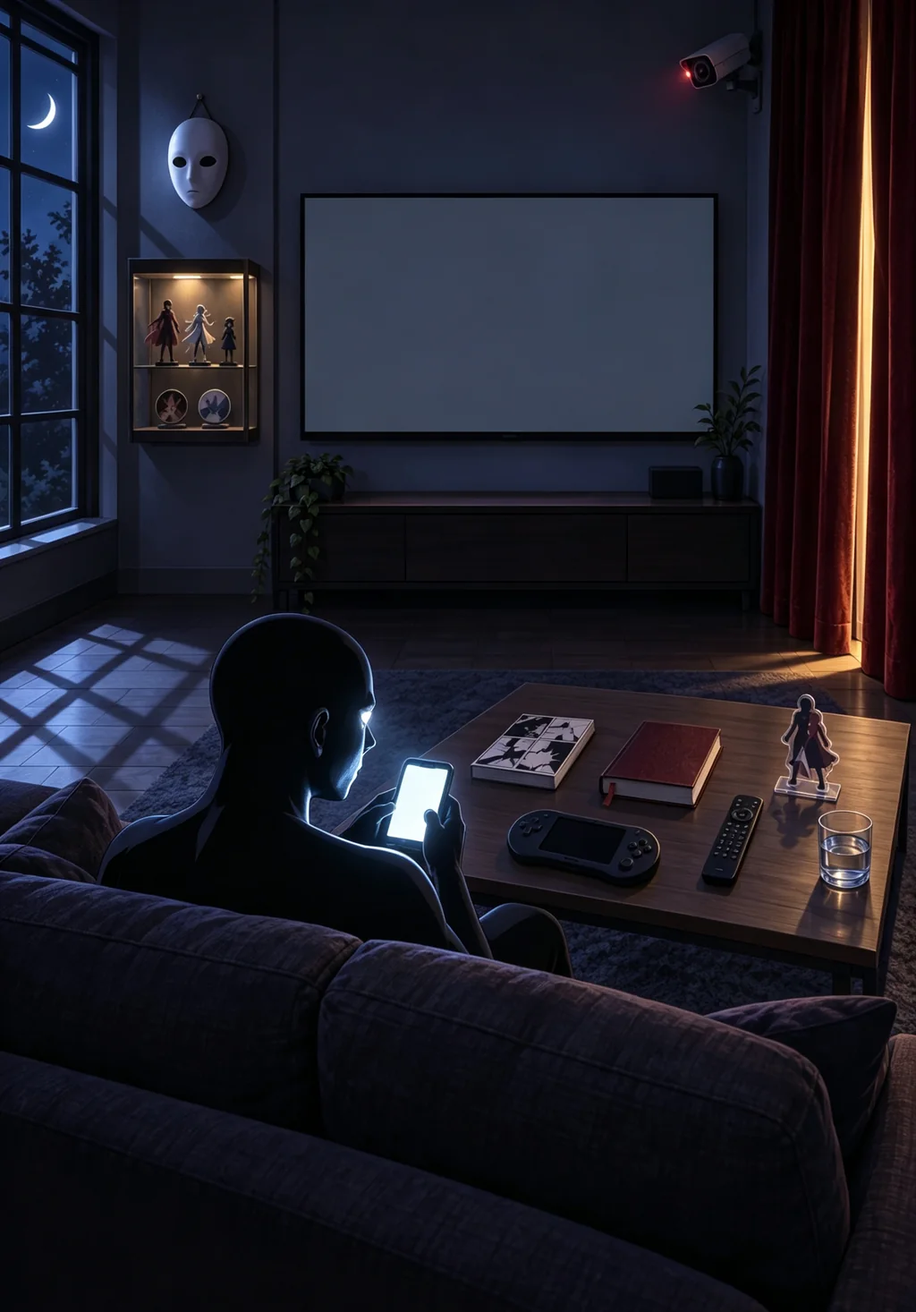
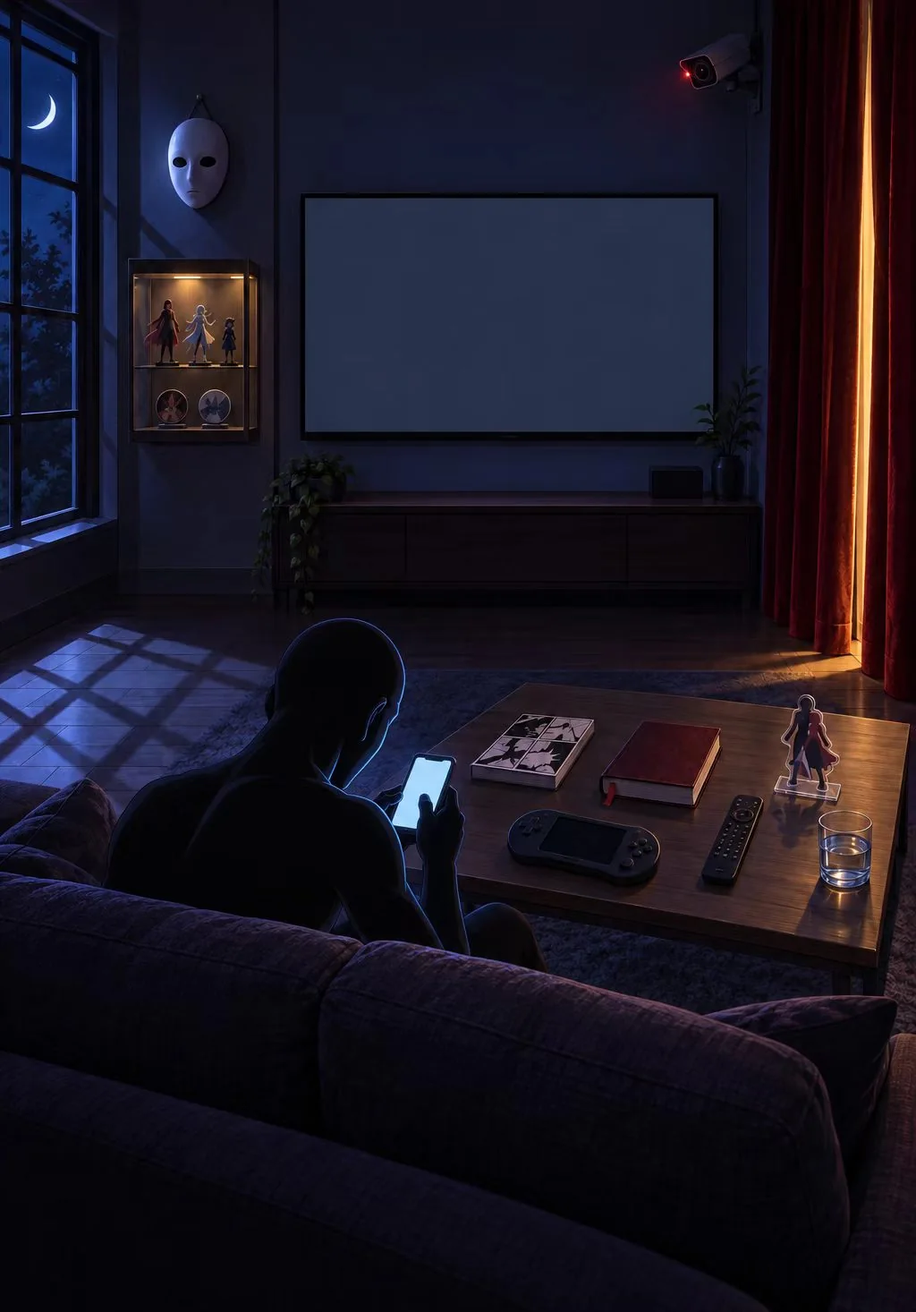
窥探之眼：全部换成生成的图（不另画）+ 引导选形态 + 手机五个 App + 换图进帷幕后 / 周边柜
- 底图：客厅、戴面具版、手机特写（原图上的品牌图标抹掉，前端叠自己的）、帷幕后面、周边柜、前景虚化层
- 第一次进来先选「这段剧情是一部……」：五块面板用第二张图抠的，选完电视亮起对应画面（也从图里抠）
- 手机：官方平台（随形态五选一）/ 论坛 / 周边店（商品 + 评价）/ 同人圈 / 另一条线（同人作品 = 原著线，原创作品 = IF 线）/ 设置
- 面具戴上 = 作者模式（整张交叉淡入戴面具那张）；帷幕 / 周边柜点进去整张换图；监控 = 刷新 / 第四面墙
- 内容仍是样例

Claude-Session: https://claude.ai/code/session_01TSyEwZEwvoN7y1zL8fqiLP

diff --git a/apps/eye/eye.js b/apps/eye/eye.js
@@ -1,149 +1,196 @@
 // 小手机 · 窥探之眼：从更高一层往下看——这段剧情在「那个世界」里是一部漫画 / 动画 / 电视剧 / 小说 / 游戏
-// 画面：深夜客厅（assets/eye/room.webp），一个背对我们的小黑人窝在沙发里刷手机；墙上的电视、面具、周边柜、红帷幕、监控都能点
-//   电视 → 本期更新（屏幕内容由前端实时画上去）   手机 → 论坛 / 热搜 / 投票 / 评分 / 同人（蓝色全息屏浮在他面前）
-//   面具 → 身份（观众席 ↔ 作者）   帷幕 → 幕后   周边柜 → 周边（联动一番赏）   监控 → 刷新本期 / 打破第四面墙
-// 现在只有样子和交互；内容都是样例，生成之后接
-import { S, $, $$, page, reg, toast, save, esc } from '../../core.js';
+// 画面全是生成的图（assets/eye/*.webp），一笔不画：
+//   room / room_author  客厅（面具挂在墙上 / 戴在他脸上）   phone  他手里的手机特写（屏幕上的图标抹掉了，前端叠）
+//   backstage  帷幕后面   cabinet  周边柜特写   fg  最前面一层虚化的沙发   tv_*  五种形态在电视上放的画面   gp_* / gi_*  引导用的五块面板和小图标
+// 第一次进来先选「这段剧情是一部什么」：五块面板浮在茶几上方，点一块，电视就亮起对应的画面
+// 手机上的 App：官方平台（随形态换，五选一）/ 论坛 / 周边店 / 同人圈 / 另一条线（同人作品是原著线，原创作品是 IF 线）
+// 内容都是样例；生成之后接
+import { S, $, $$, page, reg, toast, save, esc, openApp } from '../../core.js';
 
-const CSS = new URL('./eye.css?v=2', import.meta.url).href;
+const CSS = new URL('./eye.css?v=3', import.meta.url).href;
 const css = () => { if (document.querySelector('link[data-eye]')) return; document.head.insertAdjacentHTML('beforeend', `<link rel="stylesheet" data-eye href="${CSS}">`); };
-const ROOM = new URL('../../assets/eye/room.webp', import.meta.url).href;
-const ST = () => (S.eye ||= { form: 'anime', role: 'viewer', wall: false });
+const IMG = f => new URL(`../../assets/eye/${f}.webp`, import.meta.url).href;
+const ST = () => (S.eye ||= { form: '', role: 'viewer', wall: false, src: 'orig' });
 
 /* ---------- 形态 ---------- */
-const FORMS = [['manga', '漫画'], ['anime', '动画'], ['drama', '电视剧'], ['novel', '小说'], ['game', '游戏']];
+const FORMS = [['manga', '漫画'], ['game', '游戏'], ['novel', '小说'], ['drama', '电视剧'], ['anime', '动画']];
 const FN = Object.fromEntries(FORMS);
 const FM = {
-  manga: { ep: '话', unit: '第 3 卷 · 第 27 话', where: '周刊少年某某 · 每周四', bs: '作者后记', who: '作者与责编' },
-  anime: { ep: '集', unit: '第 2 季 · 第 8 集', where: '某某 TV · 每周六 24:00', bs: '声优感想', who: '配音演员' },
-  drama: { ep: '集', unit: '第 12 集', where: '某某卫视 · 每晚 20:00', bs: '演员访谈', who: '主演' },
-  novel: { ep: '章', unit: '第三卷 · 第 41 章', where: '某某文库 · 连载中', bs: '作者的话', who: '作者' },
-  game: { ep: '章', unit: '第 4 章 · 雨夜', where: '某某工作室 · 已发售', bs: '开发者日志', who: '制作组' },
+  manga: { ep: '话', unit: '第 3 卷 · 第 27 话', where: '周刊连载', plat: '周刊连载', bs: '作者后记', who: '作者与责编', tv: 'manga' },
+  anime: { ep: '集', unit: '第 2 季 · 第 8 集', where: '番剧站 · 每周六 24:00', plat: '番剧站', bs: '声优感想', who: '配音演员', tv: 'anime' },
+  drama: { ep: '集', unit: '第 12 集', where: '剧集台 · 每晚 20:00', plat: '剧集台', bs: '演员访谈', who: '主演', tv: 'city' },
+  novel: { ep: '章', unit: '第三卷 · 第 41 章', where: '文库 · 连载中', plat: '文库', bs: '作者的话', who: '作者', tv: 'novel' },
+  game: { ep: '章', unit: '第 4 章 · 雨夜', where: '游戏库 · 已发售', plat: '游戏库', bs: '开发者日志', who: '制作组', tv: 'game' },
 };
+// 引导面板和小图标在底图上的位置（百分比，从第二张图量的）
+// （面板原图位置，留着备用）
+const GP = { manga: [36.3, 40.6, 49.6, 47.8], game: [49.6, 41.6, 63.3, 49.3], novel: [64.1, 41.9, 75.8, 49.0], drama: [75.8, 42.0, 87.5, 49.4], anime: [87.1, 42.2, 98.8, 49.7] };
+const GI = { manga: [46.2, 51.0], game: [56.9, 52.6], novel: [69.6, 51.9], drama: [80.8, 52.2], anime: [91.4, 51.9] };
 
-/* ---------- 热区（相对图片的百分比：左 上 右 下） ---------- */
-const ZONES = {
-  tv: [33.5, 14.5, 78.5, 43.5], phone: [38, 56, 50, 67], mask: [16, 9, 27.5, 21], cab: [13.5, 20, 28.5, 34.5],
-  curtain: [82, 8, 99.5, 52], cctv: [72, 2, 87, 9.5], table: [52, 51, 97, 70],
-};
-// 镜头：点进去以后画面放大几倍、往哪边推（以该热区的中心为准）
+/* ---------- 热区（相对底图的百分比：左 上 右 下） ---------- */
+const ZONES = { tv: [33.5, 14.5, 78.5, 43.5], phone: [38, 56, 50, 67], mask: [16, 9, 27.5, 21], cab: [13.5, 20, 28.5, 34.5], curtain: [82, 8, 99.5, 52], cctv: [72, 2, 87, 9.5], table: [52, 51, 97, 70] };
 const CAMS = { tv: 1.35, phone: 1.9, mask: 2.4, cab: 2.2, curtain: 1.9, cctv: 2.6, table: 1.7 };
+// 点了以后整张换成另一张图的：手机特写 / 帷幕后面 / 周边柜
+const SWAP = { phone: 'phone', curtain: 'backstage', cab: 'cabinet' };
+// 手机屏幕上放图标的那块（手机特写图里的四个角，百分比；左上 右上 右下 左下）
+const PHQ = [[40.5, 31.6], [68.0, 36.2], [54.6, 62.0], [29.6, 57.9]];
 
-/* ---------- 电视里的画面（前端画的，跟形态走） ---------- */
+/* ---------- 电视里的画面 ---------- */
 function tvScreen() {
-  const f = FM[ST().form], st = ST();
+  const st = ST(); if (!st.form) return '';
   if (st.wall) return `<div class="tv-wall"><div class="tv-eye"><i></i></div></div>`;
-  return `<div class="tv-pic f-${st.form}"><i class="tv-sun"></i><i class="tv-hill h1"></i><i class="tv-hill h2"></i><i class="tv-rain"></i>
+  const f = FM[st.form];
+  return `<img class="tv-img" src="${IMG('tv_' + f.tv)}" alt=""><i class="tv-scan"></i>
 <div class="tv-dm">${['前方高能', '泪目了', '这一集神作', '你倒是回头啊', '打卡', '啊啊啊啊'].map((t, i) => `<span style="--i:${i}">${t}</span>`).join('')}</div>
-<div class="tv-sub"><b>${esc(FN[st.form])} · ${esc(f.unit)}</b><small>「……雨，停了啊。」</small></div></div>`;
+<div class="tv-sub"><b>${esc(FN[st.form])} · ${esc(f.unit)}</b><small>「……雨，停了啊。」</small></div>`;
 }
 
-/* ---------- 手机里的 App ---------- */
-const APPS = [['forum', '论坛', '#5ad0ff'], ['hot', '热搜', '#ff7a6a'], ['vote', '投票', '#ffd45a'], ['rate', '评分', '#b48aff'], ['fan', '同人', '#ff8ac8']];
-const AN = Object.fromEntries(APPS.map(a => [a[0], a[1]]));
+/* ---------- 手机上的 App ---------- */
+const APPS = () => { const st = ST(), f = FM[st.form] || FM.anime; return [
+  ['plat', f.plat, 'plat ' + st.form], ['forum', '论坛', 'forum'], ['shop', '周边店', 'shop'], ['fan', '同人圈', 'fan'], ['line', st.src == 'fan' ? '原著线' : 'IF 线', 'line'], ['set', '设置', 'set']]; };
+const GLY = {
+  plat: '<svg viewBox="0 0 24 24"><path d="M5 5h14v12H9l-4 3z" fill="none" stroke="#fff" stroke-width="1.8" stroke-linejoin="round"/><path d="M8 9h8M8 12h5" stroke="#fff" stroke-width="1.8" stroke-linecap="round"/></svg>',
+  forum: '<svg viewBox="0 0 24 24"><path d="M4 6h16v10H10l-4 3v-3H4z" fill="#fff"/><circle cx="9" cy="11" r="1.2" fill="#3a7bd5"/><circle cx="12" cy="11" r="1.2" fill="#3a7bd5"/><circle cx="15" cy="11" r="1.2" fill="#3a7bd5"/></svg>',
+  shop: '<svg viewBox="0 0 24 24"><path d="M5 8h14l-1 12H6z" fill="#fff"/><path d="M9 8V6a3 3 0 0 1 6 0v2" fill="none" stroke="#fff" stroke-width="1.8"/><path d="M9 12v1M15 12v1" stroke="#e8542a" stroke-width="2" stroke-linecap="round"/></svg>',
+  fan: '<svg viewBox="0 0 24 24"><path d="M12 20s-7-4.4-7-9.5A3.8 3.8 0 0 1 12 8a3.8 3.8 0 0 1 7 2.5C19 15.6 12 20 12 20z" fill="#fff"/><path d="M15 4l1 2 2 .3-1.5 1.4.4 2-1.9-1-1.9 1 .4-2L12 6.3l2-.3z" fill="#fff"/></svg>',
+  line: '<svg viewBox="0 0 24 24"><path d="M4 17c5 0 5-10 10-10h6M4 7c5 0 5 10 10 10h6" fill="none" stroke="#fff" stroke-width="1.9" stroke-linecap="round"/><path d="M18 5l2 2-2 2M18 15l2 2-2 2" fill="none" stroke="#fff" stroke-width="1.9" stroke-linecap="round" stroke-linejoin="round"/></svg>',
+  set: '<svg viewBox="0 0 24 24"><circle cx="12" cy="12" r="3" fill="none" stroke="#fff" stroke-width="2"/><path d="M12 3v3M12 18v3M3 12h3M18 12h3M5.6 5.6l2.1 2.1M16.3 16.3l2.1 2.1M5.6 18.4l2.1-2.1M16.3 7.7l2.1-2.1" stroke="#fff" stroke-width="2" stroke-linecap="round"/></svg>',
+};
+function phoneGrid() {
+  return `<div class="ph-grid">${APPS().map(([id, n, cls]) => `<b data-a="hopen" data-x="${id}"><i class="pi ${cls}">${GLY[id]}</i><span>${esc(n)}</span></b>`).join('')}</div>`;
+}
+// 把手机屏幕那块四边形算成 matrix3d（单位正方形 → 四个角）
+function quadMatrix(w, h, pts) { // 把 (0,0)-(w,h) 的矩形映射到四个角 pts（像素）
+  const [[x0, y0], [x1, y1], [x2, y2], [x3, y3]] = pts;
+  const dx1 = x1 - x2, dx2 = x3 - x2, dx3 = x0 - x1 + x2 - x3, dy1 = y1 - y2, dy2 = y3 - y2, dy3 = y0 - y1 + y2 - y3;
+  const det = dx1 * dy2 - dx2 * dy1, g = (dx3 * dy2 - dx2 * dy3) / det, hh = (dx1 * dy3 - dx3 * dy1) / det;
+  const a = x1 - x0 + g * x1, b = x3 - x0 + hh * x3, d = y1 - y0 + g * y1, e = y3 - y0 + hh * y3;
+  return `matrix3d(${a / w},${d / w},0,${g / w},${b / h},${e / h},0,${hh / h},0,0,1,0,${x0},${y0},0,1)`;
+}
 
 /* ---------- 全息屏：每个入口一页，点进去还有下一层 ---------- */
 const H = {
-  phone: () => ({ k: 'PHONE · 他的手机', t: '窥探他的屏幕', m: `${FN[ST().form]} · ${FM[ST().form].unit}`, apps: 1 }),
-  forum: () => ({ k: 'FORUM · 追更区', t: '今日 128 帖', m: '热帖 3 · 新回复 41', list: [['伞党', '第 27 话那把伞到底借给谁了？细节考据', '热 218'], ['路过的编辑', '这周作画是不是崩了，作者在赶稿吧', '56'], ['雨停了吗', '三人同框！！我宣布这是本季最佳', '热 501'], ['考据组', '扉页右下角那只眼睛……是我想多了吗', '89'], ['夜班读者', '每周四就靠这个撑着了', '33']], go: 'post', acts: [['我也发一帖', 'post']] }),
+  plat: () => { const f = FM[ST().form]; return { k: `${f.plat} · 官方`, t: '雨停之前', m: `${f.where} · ${f.unit} · 今天更新`, body: '这一' + f.ep + '里，万事屋的雨一直没停。他把最后一把伞借给了来委托的人，自己在屋檐下坐到天黑。有人问他在等谁，他说在等雨停。', dm: ['前方高能！！', '泪目了', '这一集神作', '打卡', '伞！！！'], acts: [['本' + f.ep + '评论 · 2,418', 'cmts'], ['刷新本期', 'gen']] }; },
+  forum: () => ({ k: 'FORUM · 追更区', t: '今日 128 帖', m: '热帖 3 · 新回复 41', tabs: [['热帖', 1], ['热搜', 0], ['投票', 0], ['评分', 0]], list: [['伞党', '第 27 话那把伞到底借给谁了？细节考据', '热 218'], ['路过的编辑', '这周作画是不是崩了，作者在赶稿吧', '56'], ['雨停了吗', '三人同框！！我宣布这是本季最佳', '热 501'], ['考据组', '扉页右下角那只眼睛……是我想多了吗', '89'], ['夜班读者', '每周四就靠这个撑着了', '33']], go: 'post', acts: [['我也发一帖', 'post']] }),
   post: () => ({ k: 'FORUM · 第 27 话', t: '那把伞到底借给谁了？', m: '伞党 · 2 小时前 · 218 楼', body: '扉页里那把伞的伞骨是七根，但第 19 话他拿的是八根的那把。要么是作画失误，要么借出去的根本不是同一把伞。\n\n另外右下角那只眼睛，连续三话都出现在同一个位置了，不可能是巧合。', list: [['2 楼 · 雨停了吗', '七根！！我数了三遍', '12'], ['3 楼 · 路过的编辑', '作画失误，别想太多', '4'], ['4 楼 · 考据组', '那只眼睛我也注意到了', '31']], acts: [['回复这一楼', 'reply']] }),
-  hot: () => ({ k: 'TRENDING · 热搜', t: '实时话题', m: '更新于 1 分钟前', list: [['1', '雨停之前 第27话', '爆'], ['2', '伞到底借给谁了', '热'], ['3', '银发少年 回头', '热'], ['4', '周刊少年某某 休刊', ''], ['5', '扉页 眼睛', '新'], ['6', '作者 后记 哭了', '']], go: 'forum' }),
-  vote: () => ({ k: 'VOTE · 人气投票', t: '第 3 回角色人气投票', m: '投票中 · 还剩 2 天', bars: [['银发少年', 42], ['红伞少女', 31], ['眼镜君', 15], ['店长', 8], ['其他', 4]], acts: [['投他一票', 'cast']] }),
-  rate: () => ({ k: 'SCORE · 评分', t: '9.2', m: '12,480 人评价 · 本话 9.6', bars: [['五星', 78], ['四星', 15], ['三星', 5], ['二星', 1], ['一星', 1]], list: [['长评', '关于雨、伞和那些没说出口的话', '热 1.2k'], ['短评', '这一话之后我不敢再看扉页了', '340']], go: 'post' }),
-  fan: () => ({ k: 'FANWORKS · 同人', t: '本周产出 64', m: '图 41 · 文 19 · cos 4', grid: [['#5a6a9a', '雨夜'], ['#8a5a6a', '借伞'], ['#4a6a5a', '屋檐下'], ['#6a5a8a', '回头'], ['#8a7a4a', '扉页'], ['#4a5a7a', '三人']], acts: [['看全部', 'fanall']] }),
-  tv: () => { const f = FM[ST().form]; return { k: `${FN[ST().form].toUpperCase ? FN[ST().form] : ''} · 本期`, t: '雨停之前', m: `${f.where} · ${f.unit}`, body: '这一' + f.ep + '里，万事屋的雨一直没停。他把最后一把伞借给了来委托的人，自己在屋檐下坐到天黑。有人问他在等谁，他说在等雨停。', dm: ['前方高能！！', '泪目了', '这一集神作', '打卡', '伞！！！'], acts: [['弹幕 · 实时', 'dm'], ['刷新本期', 'gen']] }; },
+  shop: () => ({ k: 'STORE · 官方周边店', t: '雨停之前 官方店', m: '关注 12.4 万 · 本期上新 6 件', goods: [['#d88aa6', '伞 · 亚克力立牌', '¥48', '4.9'], ['#8ab0e6', '万事屋 吧唧 3 枚', '¥35', '4.8'], ['#e6c46a', '第 3 卷 特装版', '¥128', '5.0'], ['#9a8ae6', '雨夜 挂画', '¥88', '4.7']], list: [['买家 · 伞党', '立牌做工比想的好，伞骨真的是七根', '★★★★★'], ['买家 · 夜班读者', '吧唧背面有那只眼睛，细节满分', '★★★★★'], ['买家 · 路过的编辑', '挂画偏暗，但挂在床头很对味', '★★★★☆']], acts: [['去商业街抽一番赏', 'street']] }),
+  fan: () => ({ k: 'FANWORKS · 同人圈', t: '本周产出 64', m: '图 41 · 文 19 · cos 4 · 高维度的粉丝们', grid: [['#5a6a9a', '雨夜'], ['#8a5a6a', '借伞'], ['#4a6a5a', '屋檐下'], ['#6a5a8a', '回头'], ['#8a7a4a', '扉页'], ['#4a5a7a', '三人']], list: [['太太A', '《等雨停的人》 · 短篇 · 3.2k 字', '热 890'], ['画手B', '屋檐下 · 彩图', '412']], acts: [['看全部', 'fanall']] }),
+  line: () => ST().src == 'fan' ? { k: 'ORIGINAL · 原著线', t: '原著里的他们', m: '原著角色看这条线的剧情', body: '原著里那把伞他没借出去。所以当原著的他看到这条线里的自己坐在屋檐下等雨停，沉默了很久。', list: [['原著 · 他', '……我不会把伞借出去的。但这个我，好像比我更像我。', ''], [' 原著 · 她', '这条线里他居然会等人，笑死，原著他连雨都不躲。', '']], acts: [['切换到 IF 线（原创作品）', 'srcorig']] }
+    : { k: 'IF · 另一条线', t: '如果那天他没借伞', m: 'IF 线 · 同一批人，另一个选择', body: '这部作品没有原著，所以另一条线是「IF 线」：同一个故事，在某个岔路口走了另一条路。那边的他们，隔着线看这边。', list: [['IF 线 · 他', '我把伞留下了。然后我在屋檐下等了一整晚，雨也没停。', ''], ['IF 线 · 她', '这边的我没去找他。所以看见那边的我去了，有点想哭。', '']], acts: [['切换到原著线（同人作品）', 'srcfan']] },
+  set: () => ({ k: 'SETTINGS', t: '作品档案', m: `${FN[ST().form]} · ${FM[ST().form].unit}`, forms: 1, acts: [['重新选择作品', 'reguide']] }),
+  tv: () => { const f = FM[ST().form]; return { k: `${FN[ST().form]} · 本期`, t: '雨停之前', m: `${f.where} · ${f.unit}`, body: '这一' + f.ep + '里，万事屋的雨一直没停。他把最后一把伞借给了来委托的人，自己在屋檐下坐到天黑。', dm: ['前方高能！！', '泪目了', '这一集神作', '打卡', '伞！！！'], acts: [['弹幕 · 实时', 'dm'], ['刷新本期', 'gen']] }; },
   mask: () => ({ k: 'IDENTITY · 身份', t: ST().role == 'author' ? '作者' : '观众席', m: ST().role == 'author' ? '以作者本人的身份发言 · 读者会认出你' : '以普通读者的身份逛论坛 · 用自己的马甲发帖', body: ST().role == 'author' ? '面具戴上了。从现在起，你的每一句话都会被当成官方发言。' : '面具还挂在墙上。你只是观众席里的一个人。', acts: [[ST().role == 'author' ? '摘下面具 · 回到观众席' : '戴上面具 · 成为作者', 'role']] }),
   curtain: () => { const f = FM[ST().form]; return { k: `BACKSTAGE · ${f.bs}`, t: f.who, m: `本${f.ep} · 2 条`, body: ST().form == 'manga' || ST().form == 'novel' ? '这一话画到最后一页的时候外面真的在下雨。借伞那个分镜改了四次，责编说第一版太温柔了，不像他。' : '录屋檐下那段戏的时候，导演让我什么都别说，只呼吸。后来回放，我自己也沉默了很久。', acts: [['看全文', 'bs']] }; },
-  cab: () => ({ k: 'GOODS · 周边', t: '本期周边', m: '一番赏 · 第 2 弹', grid: [['#d88aa6', 'A 赏'], ['#8ab0e6', 'B 赏'], ['#e6c46a', 'C 赏'], ['#ff8ac8', '吧唧'], ['#8adcff', '吧唧'], ['#9a8ae6', '立牌']], acts: [['去商业街抽一发', 'street']] }),
+  cab: () => ({ k: 'GOODS · 周边柜', t: '我的收藏', m: '手办 3 · 吧唧 3 · 卡 3 · 扭蛋 1', acts: [['去商业街抽一番赏', 'street'], ['去周边店', 'shop']] }),
   cctv: () => ({ k: 'EYE · 窥探之眼', t: ST().wall ? '他发现你了' : '高维视角', m: `上次窥视：${FM[ST().form].unit} · 2 小时前`, body: ST().wall ? '监控转过来了。电视里的人也转过来了。\n现在不只是你在看他。' : '从这里往下看，剧情是一部正在连载的作品。刷新一次，就把最新的进度翻到这个世界里来。', acts: [['刷新本期', 'gen'], [ST().wall ? '关上第四面墙' : '打破第四面墙', 'wall']] }),
-  table: () => ({ k: 'TABLE · 茶几', t: '桌上的东西', m: '五种形态', forms: 1 }),
+  table: () => ({ k: 'TABLE · 茶几', t: '这段剧情是一部……', m: '换一种形态，电视和手机都会跟着变', forms: 1 }),
 };
 
 function holo(k) {
-  const d = H[k](); const row = (a, b, c) => `<li><b>${esc(a)}</b><span>${esc(b)}</span>${c ? `<em>${esc(c)}</em>` : ''}</li>`;
+  const d = H[k]();
+  const li = (a, b, c, go) => `<li ${go ? `data-a="hopen" data-x="${go}"` : ''}><b>${esc(a)}</b><span>${esc(b)}</span>${c ? `<em>${esc(c)}</em>` : ''}</li>`;
   return `<div class="holo" data-h="${k}"><i class="ho-c c1"></i><i class="ho-c c2"></i><i class="ho-c c3"></i><i class="ho-c c4"></i>
 <div class="ho-h"><i></i><span class="scr" data-t="${esc(d.k)}">${esc(d.k)}</span><small>LIVE</small></div>
 <div class="ho-b"><b class="ho-t">${esc(d.t)}</b><em class="ho-m">${esc(d.m)}</em>
+${d.tabs ? `<div class="ho-tabs">${d.tabs.map(([n, on]) => `<b class="${on ? 'on' : ''}">${n}</b>`).join('')}</div>` : ''}
 ${d.body ? `<p>${esc(d.body).replace(/\n/g, '<br>')}</p>` : ''}
-${d.apps ? `<div class="ho-apps">${APPS.map(([id, n, c]) => `<b data-a="hopen" data-x="${id}" style="--c:${c}"><i></i>${n}</b>`).join('')}</div>` : ''}
-${d.forms ? `<div class="ho-forms">${FORMS.map(([id, n]) => `<b class="${ST().form == id ? 'on' : ''}" data-a="eform" data-x="${id}">${n}</b>`).join('')}</div>` : ''}
-${d.list ? `<ul class="ho-list">${d.list.map(([a, b, c]) => (d.go ? `<li data-a="hopen" data-x="${d.go}">` : '<li>') + `<b>${esc(a)}</b><span>${esc(b)}</span>${c ? `<em>${esc(c)}</em>` : ''}</li>`).join('')}</ul>` : ''}
-${d.bars ? `<div class="ho-bars">${d.bars.map(([n, v]) => `<div><span>${esc(n)}</span><i style="--v:${v}%"></i><em>${v}%</em></div>`).join('')}</div>` : ''}
+${d.forms ? `<div class="ho-forms">${FORMS.map(([id, n]) => `<b class="${ST().form == id ? 'on' : ''}" data-a="eform" data-x="${id}"><img src="${IMG('gi_' + id)}" alt="">${n}</b>`).join('')}</div>` : ''}
+${d.goods ? `<div class="ho-goods">${d.goods.map(([c, n, p, r]) => `<div style="--c:${c}"><i></i><b>${esc(n)}</b><span>${p}<em>★ ${r}</em></span></div>`).join('')}</div>` : ''}
 ${d.grid ? `<div class="ho-grid">${d.grid.map(([c, n]) => `<b style="--c:${c}"><span>${esc(n)}</span></b>`).join('')}</div>` : ''}
+${d.list ? `<ul class="ho-list">${d.list.map(([a, b, c]) => li(a, b, c, d.go)).join('')}</ul>` : ''}
 ${d.dm ? `<div class="ho-dm">${d.dm.map((t, i) => `<span style="--i:${i}">${esc(t)}</span>`).join('')}</div>` : ''}
 </div>${d.acts ? `<div class="ho-acts">${d.acts.map(([l, a]) => `<button data-a="hact" data-x="${a}"><span>${esc(l)}</span><i>›</i></button>`).join('')}</div>` : ''}</div>`;
 }
 
-/* ---------- 乱码解码：标题字一个个从乱码翻成正字 ---------- */
+/* ---------- 乱码解码 ---------- */
 const GL = '░▒▓█＜＞/\\|=+*#%&0123456789アイウエオカキクケコ';
 function scramble(el) {
-  const t = el.dataset.t || el.textContent; let n = 0; const L = t.length;
+  if (!el) return; const t = el.dataset.t || el.textContent; let n = 0; const L = t.length;
   const tick = () => { n += .6; el.textContent = [...t].map((c, i) => i < n ? c : c == ' ' ? ' ' : GL[Math.random() * GL.length | 0]).join(''); if (n < L) el._sc = requestAnimationFrame(tick); else el.textContent = t; };
   cancelAnimationFrame(el._sc); tick();
 }
 
-/* ---------- 镜头 ---------- */
+/* ---------- 镜头 / 换图 ---------- */
 let focused = '', stack = [];
-function focus(el, k, push = true) {
+function fitRoom(el) { const st = $('.eye-stage', el), fit = $('.fit', el); if (!st || !fit) return; const w = st.clientWidth, h = st.clientHeight; const fw = Math.max(w, h * 1024 / 1466) + 'px'; fit.style.setProperty('--fw', fw); st.style.setProperty('--fw', fw); placePhone(el); }
+function placePhone(el) { const sw = $('.swaps', el), g = $('.ph-grid', el); if (!sw || !g) return; const fw = sw.clientWidth, fh = fw * 1466 / 1024;
+  g.style.transform = quadMatrix(g.offsetWidth, g.offsetHeight, PHQ.map(([x, y]) => [x / 100 * fw, y / 100 * fh])); }
+function cam(el, k) {
   const st = $('.eye-stage', el), room = $('.eye-room', el); if (!st) return;
-  if (k && push && focused && focused != k) stack.push(focused);
-  focused = k; st.classList.toggle('zoom', !!k); st.dataset.focus = k || '';
-  const z = k && ZONES[k.split(':')[0]] ? ZONES[k.split(':')[0]] : null, zk = k ? k.split(':')[0] : '';
+  const zk = k ? k.split(':')[0] : '', z = ZONES[zk];
+  st.classList.toggle('zoom', !!k); st.dataset.focus = zk;
   if (z) { const fit = $('.fit', el), s = CAMS[zk] || 1.8, sw = st.clientWidth, sh = st.clientHeight, fw = parseFloat(fit.style.getPropertyValue('--fw')) || sw, fh = fw * 1466 / 1024;
-    // fit 居中在 stage 里；热区中心换算成 stage 百分比，再夹在合法范围内，免得放大后露出黑边
-    let cx = (sw - fw) / 2 + (z[0] + z[2]) / 200 * fw, cy = (sh - fh) / 2 + (z[1] + z[3]) / 200 * fh;
-    // transform-origin 是画面中心：点 p 放大后到 c + (p - c)·s + t。要让热区中心落到目标点 (画面中心偏上)，t = target - c - (p - c)·s
-    const C = [sw / 2, sh / 2], target = [sw / 2, sh * (zk == 'tv' ? .26 : .40)];
-    let tx = target[0] - C[0] - (cx - C[0]) * s, ty = target[1] - C[1] - (cy - C[1]) * s;
-    // 图片放大后的四边：左 = C.x + (fx0 - C.x)·s + tx ≤ 0；右 ≥ sw；上下同理 → 夹住 t
-    const fx0 = (sw - fw) / 2, fy0 = (sh - fh) / 2;
-    tx = Math.min(Math.max(tx, sw - (C[0] + (fx0 + fw - C[0]) * s)), -(C[0] + (fx0 - C[0]) * s));
-    ty = Math.min(Math.max(ty, sh - (C[1] + (fy0 + fh - C[1]) * s)), -(C[1] + (fy0 - C[1]) * s));
+    const cx = (sw - fw) / 2 + (z[0] + z[2]) / 200 * fw, cy = (sh - fh) / 2 + (z[1] + z[3]) / 200 * fh, C = [sw / 2, sh / 2], target = [sw / 2, sh * (zk == 'tv' ? .26 : .40)];
+    let tx = target[0] - C[0] - (cx - C[0]) * s, ty = target[1] - C[1] - (cy - C[1]) * s; const fx0 = (sw - fw) / 2, fy0 = (sh - fh) / 2;
+    tx = Math.min(Math.max(tx, sw - (C[0] + (fx0 + fw - C[0]) * s)), -(C[0] + (fx0 - C[0]) * s)); ty = Math.min(Math.max(ty, sh - (C[1] + (fy0 + fh - C[1]) * s)), -(C[1] + (fy0 - C[1]) * s));
     room.style.setProperty('--s', s); room.style.setProperty('--tx', tx + 'px'); room.style.setProperty('--ty', ty + 'px'); }
   else { room.style.setProperty('--s', 1); room.style.setProperty('--tx', '0px'); room.style.setProperty('--ty', '0px'); }
-  $$('.hz', el).forEach(h => h.classList.toggle('on', h.dataset.x == zk));
-  $('.holo', el)?.remove(); $('.eye-back', el)?.classList.toggle('show', !!k);
-  $('.holo-beam', el)?.remove();
-  if (k) { const hk = k.includes(':') ? k.split(':')[1] : k; if (H[hk]) { st.insertAdjacentHTML('beforeend', (zk == 'phone' ? '<i class="holo-beam"></i>' : '') + holo(hk)); const h = $('.holo', el); requestAnimationFrame(() => { h.classList.add('in'); $('.holo-beam', el)?.classList.add('in'); scramble($('.scr', h)); }); } }
+  // 换整张图：推近以后再淡入（手机特写 / 帷幕后 / 周边柜）
+  const sw_ = SWAP[zk] || ''; $$('.swap', el).forEach(i => i.classList.toggle('in', i.dataset.k == sw_)); st.classList.toggle('swapped', !!sw_);
+  $$('.hz', el).forEach(h => h.classList.toggle('on', h.dataset.x == zk && !sw_));
 }
-const back = (el, pg) => { if (stack.length) focus(el, stack.pop(), false); else { focus(el, ''); } };
+function focus(el, k, push = true) {
+  const st = $('.eye-stage', el);
+  if (k && push && focused && focused != k) stack.push(focused);
+  focused = k; cam(el, k);
+  $('.holo', el)?.remove(); $('.holo-beam', el)?.remove(); $('.eye-back', el)?.classList.toggle('show', !!k);
+  const zk = k ? k.split(':')[0] : '', hk = k.includes(':') ? k.split(':')[1] : k;
+  st.classList.toggle('ph-home', zk == 'phone' && hk == 'phone');
+  if (k && hk != 'phone' && H[hk]) { st.insertAdjacentHTML('beforeend', (zk == 'phone' ? '<i class="holo-beam"></i>' : '') + holo(hk)); const h = $('.holo', el); requestAnimationFrame(() => { h.classList.add('in'); $('.holo-beam', el)?.classList.add('in'); scramble($('.scr', h)); }); }
+}
+const back = el => { if (stack.length) focus(el, stack.pop(), false); else focus(el, ''); };
 
-function fitRoom(el) { const st = $('.eye-stage', el), fit = $('.fit', el); if (!st || !fit) return; const w = st.clientWidth, h = st.clientHeight; fit.style.setProperty('--fw', Math.max(w, h * 1024 / 1466) + 'px'); }
+/* ---------- 引导：第一次进来先选作品 ---------- */
+function guide(el, on) { const g = $('.eye-guide', el); if (!g) return; g.classList.toggle('in', on); $('.eye-stage', el).classList.toggle('guiding', on); }
+function pickForm(el, k, pg) {
+  const st = ST(); st.form = k; save();
+  const g = $('.eye-guide', el); if (g) { $$('.gp', g).forEach(p => p.classList.toggle('pick', p.dataset.x == k)); $$('.gp', g).forEach(p => p.dataset.x != k && p.classList.add('off')); }
+  setTimeout(() => { guide(el, false); $('.tv-scr', el).innerHTML = tvScreen(); $('.tv-scr', el).classList.add('lit'); $('.eye-brand small', el).textContent = `${FN[k]} · ${FM[k].unit}`; placePhone(el); $('.ph-grid', el).innerHTML = phoneGrid().replace(/^<div class="ph-grid">|<\/div>$/g, ''); }, 650);
+}
+
 function mount(el) {
   fitRoom(el); requestAnimationFrame(() => fitRoom(el)); const st = $('.eye-stage', el); if (!st || st._eye) return; st._eye = 1; new ResizeObserver(() => fitRoom(el)).observe(st);
-  // 聚光灯：手指 / 鼠标在哪，哪里就亮一点（像拿手电筒照着看）
   st.addEventListener('pointermove', e => { const r = st.getBoundingClientRect(); st.style.setProperty('--mx', (e.clientX - r.left) / r.width * 100 + '%'); st.style.setProperty('--my', (e.clientY - r.top) / r.height * 100 + '%'); });
-  // 三维倾斜：按住拖动一点点，整个房间跟着微微转（视差）
   let y0 = 0; st.addEventListener('pointerdown', e => { const c = e.target.closest('.holo'); y0 = c ? e.clientY : 0; });
   st.addEventListener('pointerup', e => { if (y0 && e.clientY - y0 > 48) back(el); y0 = 0; });
-  st.addEventListener('click', e => { if (e.target.closest('.holo,[data-a]')) return; const b = e.target.closest('.hz'); if (!b && focused) back(el); });
-  // 点击涟漪
-  st.addEventListener('pointerdown', e => { const b = e.target.closest('button,.hz,.ho-apps b,.ho-forms b'); if (!b) return; const r = b.getBoundingClientRect(), i = document.createElement('i'); i.className = 'rip'; i.style.left = e.clientX - r.left + 'px'; i.style.top = e.clientY - r.top + 'px'; b.append(i); setTimeout(() => i.remove(), 700); });
-  // 监控红灯 + 电视慢慢动的光
-  const tv = $('.tv-scr', el); tv && (tv.innerHTML = tvScreen());
+  st.addEventListener('click', e => { if (st.classList.contains('guiding')) return; if (e.target.closest('.holo,[data-a],.ph-grid')) return; if (focused) back(el); });
+  st.addEventListener('pointerdown', e => { const b = e.target.closest('button,.hz,.ph-grid b,.ho-forms b,.gp'); if (!b) return; const r = b.getBoundingClientRect(), i = document.createElement('i'); i.className = 'rip'; i.style.left = e.clientX - r.left + 'px'; i.style.top = e.clientY - r.top + 'px'; b.append(i); setTimeout(() => i.remove(), 700); });
+  if (!ST().form) guide(el, true);
 }
 
-const body = () => { const st = ST(); return `<div class="eye-stage ${st.wall ? 'wall' : ''}" style="--mx:50%;--my:50%">
-<div class="eye-room" style="--s:1;--tx:0px;--ty:0px"><div class="fit"><img src="${ROOM}" draggable="false" alt="">
-<div class="tv-scr">${tvScreen()}</div>
+const body = () => { const st = ST(), has = !!st.form; return `<div class="eye-stage ${st.wall ? 'wall' : ''}" style="--mx:50%;--my:50%">
+<div class="eye-room" style="--s:1;--tx:0px;--ty:0px"><div class="fit">
+<img class="base ${st.role == 'author' ? '' : 'in'}" src="${IMG('room')}" draggable="false" alt=""><img class="base ${st.role == 'author' ? 'in' : ''}" src="${IMG('room_author')}" draggable="false" alt="">
+<div class="tv-scr ${has ? 'lit' : ''}">${tvScreen()}</div>
 <i class="led"></i><i class="moon-ray"></i><i class="curtain-glow"></i>
 ${Object.entries(ZONES).map(([k, z]) => `<b class="hz hz-${k}" data-a="ez" data-x="${k}" style="left:${z[0]}%;top:${z[1]}%;width:${z[2] - z[0]}%;height:${z[3] - z[1]}%"></b>`).join('')}
 </div></div>
+<div class="eye-guide ${has ? '' : 'in'}"><p class="gq"><b>在那个世界里，这段剧情是一部……</b><small>点一块面板</small></p>
+<div class="gps">${FORMS.map(([k, n]) => `<b class="gp" data-a="gpick" data-x="${k}"><img src="${IMG('gp_' + k)}" alt=""><span>${n}</span><img class="gi" src="${IMG('gi_' + k)}" alt=""></b>`).join('')}</div></div>
+<div class="swaps">${Object.entries(SWAP).map(([k, f]) => `<img class="swap" data-k="${f}" src="${IMG(f)}" draggable="false" alt="">`).join('')}<div class="ph-grid" data-a="noop">${has ? phoneGrid().replace(/^<div class="ph-grid">|<\/div>$/g, '') : ''}</div></div>
+<img class="eye-fg" src="${IMG('fg')}" draggable="false" alt="">
 <div class="eye-fx"><i class="dust d1"></i><i class="dust d2"></i><i class="dust d3"></i><i class="dust d4"></i><i class="dust d5"></i><i class="dust d6"></i></div>
-<div class="eye-top"><b class="eye-back ${focused ? 'show' : ''}" data-a="eback">‹ 回到客厅</b><span class="eye-brand"><i></i>窥探之眼<small>${esc(FN[st.form])} · ${esc(FM[st.form].unit)}</small></span></div>
+<div class="eye-top"><b class="eye-back ${focused ? 'show' : ''}" data-a="eback">‹ 回到客厅</b><span class="eye-brand"><i></i>窥探之眼<small>${has ? esc(FN[st.form]) + ' · ' + esc(FM[st.form].unit) : '选一部作品'}</small></span></div>
 </div>`; };
 
 reg({
   id: 'eye', name: '窥探之眼',
   icon: '<svg viewBox="0 0 24 24"><rect width="24" height="24" fill="#000"/><path d="M4 12q8-9 16 0q-8 9-16 0z" fill="none" stroke="#ff2a2a" stroke-width="1.8" stroke-linejoin="round"/><circle cx="12" cy="12" r="3.6" fill="none" stroke="#ff2a2a" stroke-width="1.8"/><circle cx="12" cy="12" r="1.4" fill="#ff2a2a"/></svg>',
   open: () => { css(); focused = ''; stack = []; return page({ title: '', cls: 'eye-pg', noBack: 1, body, after: mount, acts: {
-    ez: (k, t, e, pg) => focus(pg.el, k == focused ? '' : k),
-    eback: (x, t, e, pg) => back(pg.el, pg),
-    hopen: (k, t, e, pg) => focus(pg.el, (focused.split(':')[0] || 'phone') + ':' + k),
-    eform: (k, t, e, pg) => { ST().form = k; save(); pg.re(); setTimeout(() => focus(pg.el, 'table', false), 60); },
+    ez: (k, t, e, pg) => { if (!ST().form) return; focus(pg.el, k == focused ? '' : k); },
+    eback: (x, t, e, pg) => back(pg.el),
+    gpick: (k, t, e, pg) => pickForm(pg.el, k, pg),
+    noop: () => {},
+    hopen: (k, t, e, pg) => focus(pg.el, 'phone:' + k),
+    eform: (k, t, e, pg) => { ST().form = k; save(); pg.re(); },
     hact: (a, t, e, pg) => {
-      if (a == 'role') { ST().role = ST().role == 'author' ? 'viewer' : 'author'; save(); focus(pg.el, 'mask', false); return; }
-      if (a == 'wall') { ST().wall = !ST().wall; save(); pg.re(); setTimeout(() => { $('.tv-scr', pg.el).innerHTML = tvScreen(); focus(pg.el, 'cctv', false); }, 60); return; }
+      const st = ST();
+      if (a == 'role') { st.role = st.role == 'author' ? 'viewer' : 'author'; save(); $$('.base', pg.el).forEach((i, n) => i.classList.toggle('in', (n == 1) == (st.role == 'author'))); focus(pg.el, 'mask', false); return; }
+      if (a == 'wall') { st.wall = !st.wall; save(); $('.eye-stage', pg.el).classList.toggle('wall', st.wall); $('.tv-scr', pg.el).innerHTML = tvScreen(); focus(pg.el, 'cctv', false); return; }
+      if (a == 'srcfan' || a == 'srcorig') { st.src = a == 'srcfan' ? 'fan' : 'orig'; save(); focus(pg.el, 'phone:line', false); return; }
+      if (a == 'reguide') { st.form = ''; save(); pg.re(); return; }
+      if (a == 'shop') { focus(pg.el, 'phone:shop'); return; }
+      if (a == 'street') { openApp('street'); return; }
       toast('还没接上，先看样子');
     },
   } }); },

diff --git a/apps/eye/eye.css b/apps/eye/eye.css
@@ -1,4 +1,4 @@
-/* 窥探之眼：深夜客厅（assets/eye/room.webp 是整张底图，不另画东西）；电视屏 / 全息屏是前端叠上去的 */
+/* 窥探之眼：全是生成的图（assets/eye/*.webp），不另画东西；电视屏内容、手机图标、全息屏是前端叠上去的 */
 #stp .eye-pg { background: #06070c; color: #dfe8ff; padding-top: 0; }
 #stp .eye-pg .pg-h { display: none; }
 #stp .eye-pg .pg-b { padding: 0 !important; overflow: hidden; position: relative; background: #06070c; }
@@ -12,7 +12,15 @@
 .eye-room { position: absolute; inset: 0; transform-origin: 50% 50%; transform: translate(var(--tx), var(--ty)) scale(var(--s)); transition: transform 1s cubic-bezier(.22, .82, .18, 1); will-change: transform; }
 /* 底图按原比例铺满（cover）：fit 框保持 1024:1466，宽不够就按高撑，所有百分比热区都挂在 fit 上 */
 .eye-room .fit { position: absolute; left: 50%; top: 50%; width: var(--fw, 100%); aspect-ratio: 1024 / 1466; transform: translate(-50%, -50%); }
-.eye-room .fit > img { position: absolute; inset: 0; width: 100%; height: 100%; display: block; pointer-events: none; }
+.eye-room .fit > img.base { position: absolute; inset: 0; width: 100%; height: 100%; display: block; pointer-events: none; opacity: 0; transition: opacity .7s ease; }
+.eye-room .fit > img.in { opacity: 1; }
+.swaps { position: absolute; left: 50%; top: 50%; width: var(--fw, 100%); aspect-ratio: 1024 / 1466; transform: translate(-50%, -50%); z-index: 4; pointer-events: none; }
+.swaps > img.swap { position: absolute; inset: 0; width: 100%; height: 100%; display: block; opacity: 0; transition: opacity .6s ease .45s; }
+.swaps > img.swap.in { opacity: 1; }
+.eye-stage.swapped .swaps { pointer-events: auto; }
+/* 换了整张图以后，热区和电视都收起来 */
+.eye-stage.swapped .hz, .eye-stage.swapped .tv-scr, .eye-stage.swapped .led, .eye-stage.swapped .curtain-glow, .eye-stage.swapped .moon-ray { opacity: 0; pointer-events: none; }
+.hz, .tv-scr, .led, .curtain-glow, .moon-ray { transition: opacity .4s; }
 
 /* 热区：平时看不见；点中以后用一圈很淡的流光边框标出来 */
 .hz { position: absolute; display: block; cursor: pointer; border-radius: 6px; }
@@ -23,7 +31,12 @@
 .hz:active { background: rgba(120, 200, 255, .06); }
 
 /* 电视屏：底图上那块空白屏的位置（左 33.6% 上 14.9% 右 78.2% 下 32.5%） */
-.tv-scr { position: absolute; left: 33.6%; top: 14.9%; width: 44.6%; height: 17.6%; overflow: hidden; border-radius: 2px; pointer-events: none; background: #0b1424; }
+.tv-scr { position: absolute; left: 33.6%; top: 14.9%; width: 44.6%; height: 17.6%; overflow: hidden; border-radius: 2px; pointer-events: none; background: #141a2a; z-index: 2; }
+.tv-scr.lit { animation: tv-on .9s ease-out; }
+@keyframes tv-on { 0% { filter: brightness(0) } 30% { filter: brightness(2.2) } 100% { filter: brightness(1) } }
+.tv-img { position: absolute; inset: 0; width: 100%; height: 100%; object-fit: cover; display: block; animation: tv-breathe 6s ease-in-out infinite; }
+@keyframes tv-breathe { 50% { filter: brightness(1.08) } }
+.tv-scan { position: absolute; inset: 0; background: repeating-linear-gradient(0deg, rgba(0, 0, 0, .18) 0 1px, transparent 1px 3px); pointer-events: none; }
 .tv-pic { position: absolute; inset: 0; background: linear-gradient(180deg, #4a4a9a 0%, #a66aa0 42%, #f3b27a 62%, #ffd9a0 100%); overflow: hidden; }
 .tv-pic.f-manga { background: linear-gradient(180deg, #f4f0e6, #ddd6c6); filter: grayscale(1) contrast(1.15); }
 .tv-pic.f-drama { background: linear-gradient(180deg, #1c2a44 0%, #3a4a66 50%, #6a7a90 100%); }
@@ -58,8 +71,41 @@
 @keyframes glow { 50% { opacity: .55 } }
 /* 推镜后，底图整体压暗一点，被点的那块靠聚光灯提亮 */
 .eye-stage.zoom .eye-room::after { content: ''; position: absolute; inset: 0; background: rgba(4, 6, 12, .35); pointer-events: none; }
-/* 推近电视时全息屏往下让一让，别挡着屏幕 */
+/* 换了整张图（帷幕后 / 周边柜）或推近电视时，全息屏往下让一让，别挡着画面 */
+.eye-stage[data-focus="curtain"] .holo, .eye-stage[data-focus="cab"] .holo, .eye-stage[data-focus="mask"] .holo { top: 70%; }
 .eye-stage[data-focus="tv"] .holo { top: 62%; }
+
+/* 手机特写上的图标：一块 300×300 的网格，用 matrix3d 贴到屏幕那块四边形上 */
+.ph-grid { position: absolute; left: 0; top: 0; width: 300px; height: 300px; transform-origin: 0 0; display: grid; grid-template-columns: repeat(3, 1fr); grid-auto-rows: 88px; gap: 10px 6px; padding: 8px 10px; box-sizing: border-box; opacity: 0; pointer-events: none; transition: opacity .5s .5s; z-index: 5; }
+.eye-stage.ph-home .ph-grid { opacity: 1; pointer-events: auto; }
+.ph-grid b { display: flex; flex-direction: column; align-items: center; gap: 6px; font-size: 12px; color: #e8f0ff; text-shadow: 0 1px 3px #000; cursor: pointer; position: relative; overflow: hidden; border-radius: 12px; padding: 2px 0; }
+.ph-grid .pi { width: 58px; height: 58px; border-radius: 16px; display: grid; place-items: center; box-shadow: 0 6px 14px -6px #000, inset 0 1px 0 rgba(255, 255, 255, .35); }
+.ph-grid .pi svg { width: 32px; height: 32px; }
+.pi.plat { background: linear-gradient(145deg, #ff8a7a, #e8542a); } .pi.plat.manga { background: linear-gradient(145deg, #6fb4ff, #2f6fd6); } .pi.plat.anime { background: linear-gradient(145deg, #ff8fb8, #e8457a); } .pi.plat.drama { background: linear-gradient(145deg, #ffb46a, #e8702a); } .pi.plat.novel { background: linear-gradient(145deg, #ff9a7a, #d6472f); } .pi.plat.game { background: linear-gradient(145deg, #5fe0c8, #1fa88f); }
+.pi.forum { background: linear-gradient(145deg, #6fb8ff, #3a7bd5); } .pi.shop { background: linear-gradient(145deg, #ff9a5a, #e8542a); } .pi.fan { background: linear-gradient(145deg, #ffc05a, #f08a2a); } .pi.line { background: linear-gradient(145deg, #b48aff, #6a4ad6); } .pi.set { background: linear-gradient(145deg, #9aa4b8, #5a6478); }
+.ph-grid b:active .pi { transform: scale(.92); }
+
+/* 引导：五块面板浮在茶几上方（位置照第二张图） */
+.eye-guide { position: absolute; inset: 0; z-index: 6; opacity: 0; pointer-events: none; transition: opacity .6s; }
+.eye-guide.in { opacity: 1; pointer-events: auto; }
+.eye-guide::before { content: ''; position: absolute; inset: 0; background: rgba(2, 4, 10, .45); }
+.gq { position: absolute; left: 0; right: 0; top: 30%; margin: 0; text-align: center; color: #e6f0ff; text-shadow: 0 2px 10px #000; }
+.gq b { display: block; font-size: calc(17px * var(--fz, 1)); letter-spacing: 2px; font-weight: 600; }
+.gq small { display: block; margin-top: 6px; font-size: calc(11.5px * var(--fz, 1)); color: #9fd0ff; letter-spacing: 2px; }
+.gps { position: absolute; left: 10px; right: 10px; top: 42%; display: flex; gap: 6px; align-items: flex-end; }
+.gp { position: relative; flex: 1; cursor: pointer; border-radius: 4px; transform-origin: 50% 100%; animation: gp-float 3.4s ease-in-out infinite; filter: drop-shadow(0 0 10px rgba(120, 200, 255, .55)); transition: transform .5s, opacity .5s, filter .5s; display: flex; flex-direction: column; align-items: center; }
+.gp:nth-child(2) { animation-delay: -.6s } .gp:nth-child(3) { animation-delay: -1.2s } .gp:nth-child(4) { animation-delay: -1.8s } .gp:nth-child(5) { animation-delay: -2.4s }
+@keyframes gp-float { 50% { translate: 0 -4px } }
+.gp > img:first-child { display: block; width: 100%; aspect-ratio: 136 / 104; object-fit: fill; border-radius: 4px; }
+.gp span { display: block; margin-top: 6px; text-align: center; font-size: 11px; color: #cfe8ff; letter-spacing: 2px; text-shadow: 0 1px 4px #000; }
+.gp.pick { transform: scale(1.12); filter: drop-shadow(0 0 18px #9fe0ff) brightness(1.2); z-index: 2; }
+.gp.off { opacity: .15; }
+.gp .gi { width: 44px; height: 44px; mix-blend-mode: screen; margin-top: 2px; }
+.eye-stage.guiding .hz { pointer-events: none; }
+
+/* 最前面那层虚化的沙发：推近时淡出，平时微微跟着镜头反向动 */
+.eye-fg { position: absolute; left: 50%; top: 50%; width: var(--fw, 100%); aspect-ratio: 1024 / 1466; transform: translate(-50%, -50%); pointer-events: none; z-index: 3; opacity: .95; transition: opacity .6s, transform 1s cubic-bezier(.22, .82, .18, 1); }
+.eye-stage.zoom .eye-fg, .eye-stage.guiding .eye-fg { opacity: 0; transform: translate(-50%, -46%) scale(1.08); }
 
 /* 灰尘 */
 .eye-fx { position: absolute; inset: 0; pointer-events: none; z-index: 2; }
@@ -96,6 +142,17 @@
 .holo .ho-h small { margin-left: auto; font-size: 9px; opacity: .7; letter-spacing: 1px; }
 .holo .ho-b { padding: 10px 14px 8px; overflow: auto; scrollbar-width: none; flex: 0 1 auto; max-height: 44vh; }
 .holo .ho-t { display: block; font-size: calc(19px * var(--fz, 1)); line-height: 1.3; font-weight: 700; letter-spacing: 1px; color: #fff; text-shadow: 0 0 10px rgba(120, 200, 255, .6); }
+.ho-tabs { display: flex; gap: 6px; margin: 10px 0 2px; }
+.ho-tabs b { padding: 4px 10px; border-radius: 12px; font-size: calc(11.5px * var(--fz, 1)); border: 1px solid rgba(140, 210, 255, .3); opacity: .7; }
+.ho-tabs b.on { background: rgba(120, 200, 255, .25); border-color: #9fe0ff; opacity: 1; }
+.ho-goods { display: grid; grid-template-columns: 1fr 1fr; gap: 8px; margin: 12px 0 4px; }
+.ho-goods div { border-radius: 8px; padding: 8px; background: rgba(140, 210, 255, .08); border: 1px solid rgba(140, 210, 255, .18); display: flex; flex-direction: column; gap: 4px; font-size: calc(12px * var(--fz, 1)); }
+.ho-goods i { display: block; height: 52px; border-radius: 6px; background: linear-gradient(160deg, color-mix(in srgb, var(--c) 80%, #fff), var(--c)); }
+.ho-goods b { font-weight: 500; white-space: nowrap; overflow: hidden; text-overflow: ellipsis; }
+.ho-goods span { display: flex; justify-content: space-between; color: #ffb0c0; }
+.ho-goods em { font-style: normal; color: #ffd45a; }
+.ho-forms b img { width: 26px; height: 26px; mix-blend-mode: screen; vertical-align: middle; margin-right: 4px; }
+.ho-forms b { display: inline-flex; align-items: center; }
 .holo .ho-m { display: block; font-style: normal; font-size: calc(11.5px * var(--fz, 1)); color: rgba(216, 236, 255, .7); margin-top: 4px; }
 .holo p { margin: 10px 0 4px; font-size: calc(13px * var(--fz, 1)); line-height: 1.65; color: rgba(230, 242, 255, .92); }
 .ho-list { list-style: none; margin: 10px 0 2px; padding: 0; }

diff --git a/AGENTS.md b/AGENTS.md
@@ -57,7 +57,7 @@ apps/music/      音乐 App
   music-share.js   和聊天联动：分享卡片、一起听会话
   music.css        音乐 App 自己的样式（打开时加载）
 apps/isle/       心屿：每个角色一座果冻球里的 3D 小岛（three.js，打开时才加载 assets/three），天气 = 心情，风景随机换
-apps/eye/        窥探之眼：深夜客厅底图（assets/eye/room.webp，不另画东西）+ 百分比热区；电视屏内容和蓝色全息屏是前端叠的；点哪儿镜头 translate+scale 推过去（eye.css 按需加载）。目前只有样式，内容是样例
+apps/eye/        窥探之眼：全是生成的图（assets/eye：客厅 / 戴面具 / 手机特写 / 帷幕后 / 周边柜 / 前景 / 电视画面 / 引导面板），不另画；第一次进来先选形态，电视亮起对应画面；手机 = 官方平台（随形态）/ 论坛 / 周边店 / 同人圈 / 另一条线（同人=原著线，原创=IF线）；点哪儿镜头推过去或整张换图，全息屏浮出。内容是样例
 apps/street/     商业街：横着滑的马卡龙色小街（SVG 插画，线条干净），大头贴机 / 一番赏 / 烘焙店 / 娃娃机；目前只有样子，功能待接
   isle.js          数据和页面（心情、风景什么时候换、AI 导演的风景词、按角色卡偏时代）
   gen.js           风景配方（纯逻辑，Node 可测）：时代 × 气候 × 地形 × 地标套件 × 植物 × 动物 × 配色；hintOf 把风景词翻成配方，eraOf 认时代
